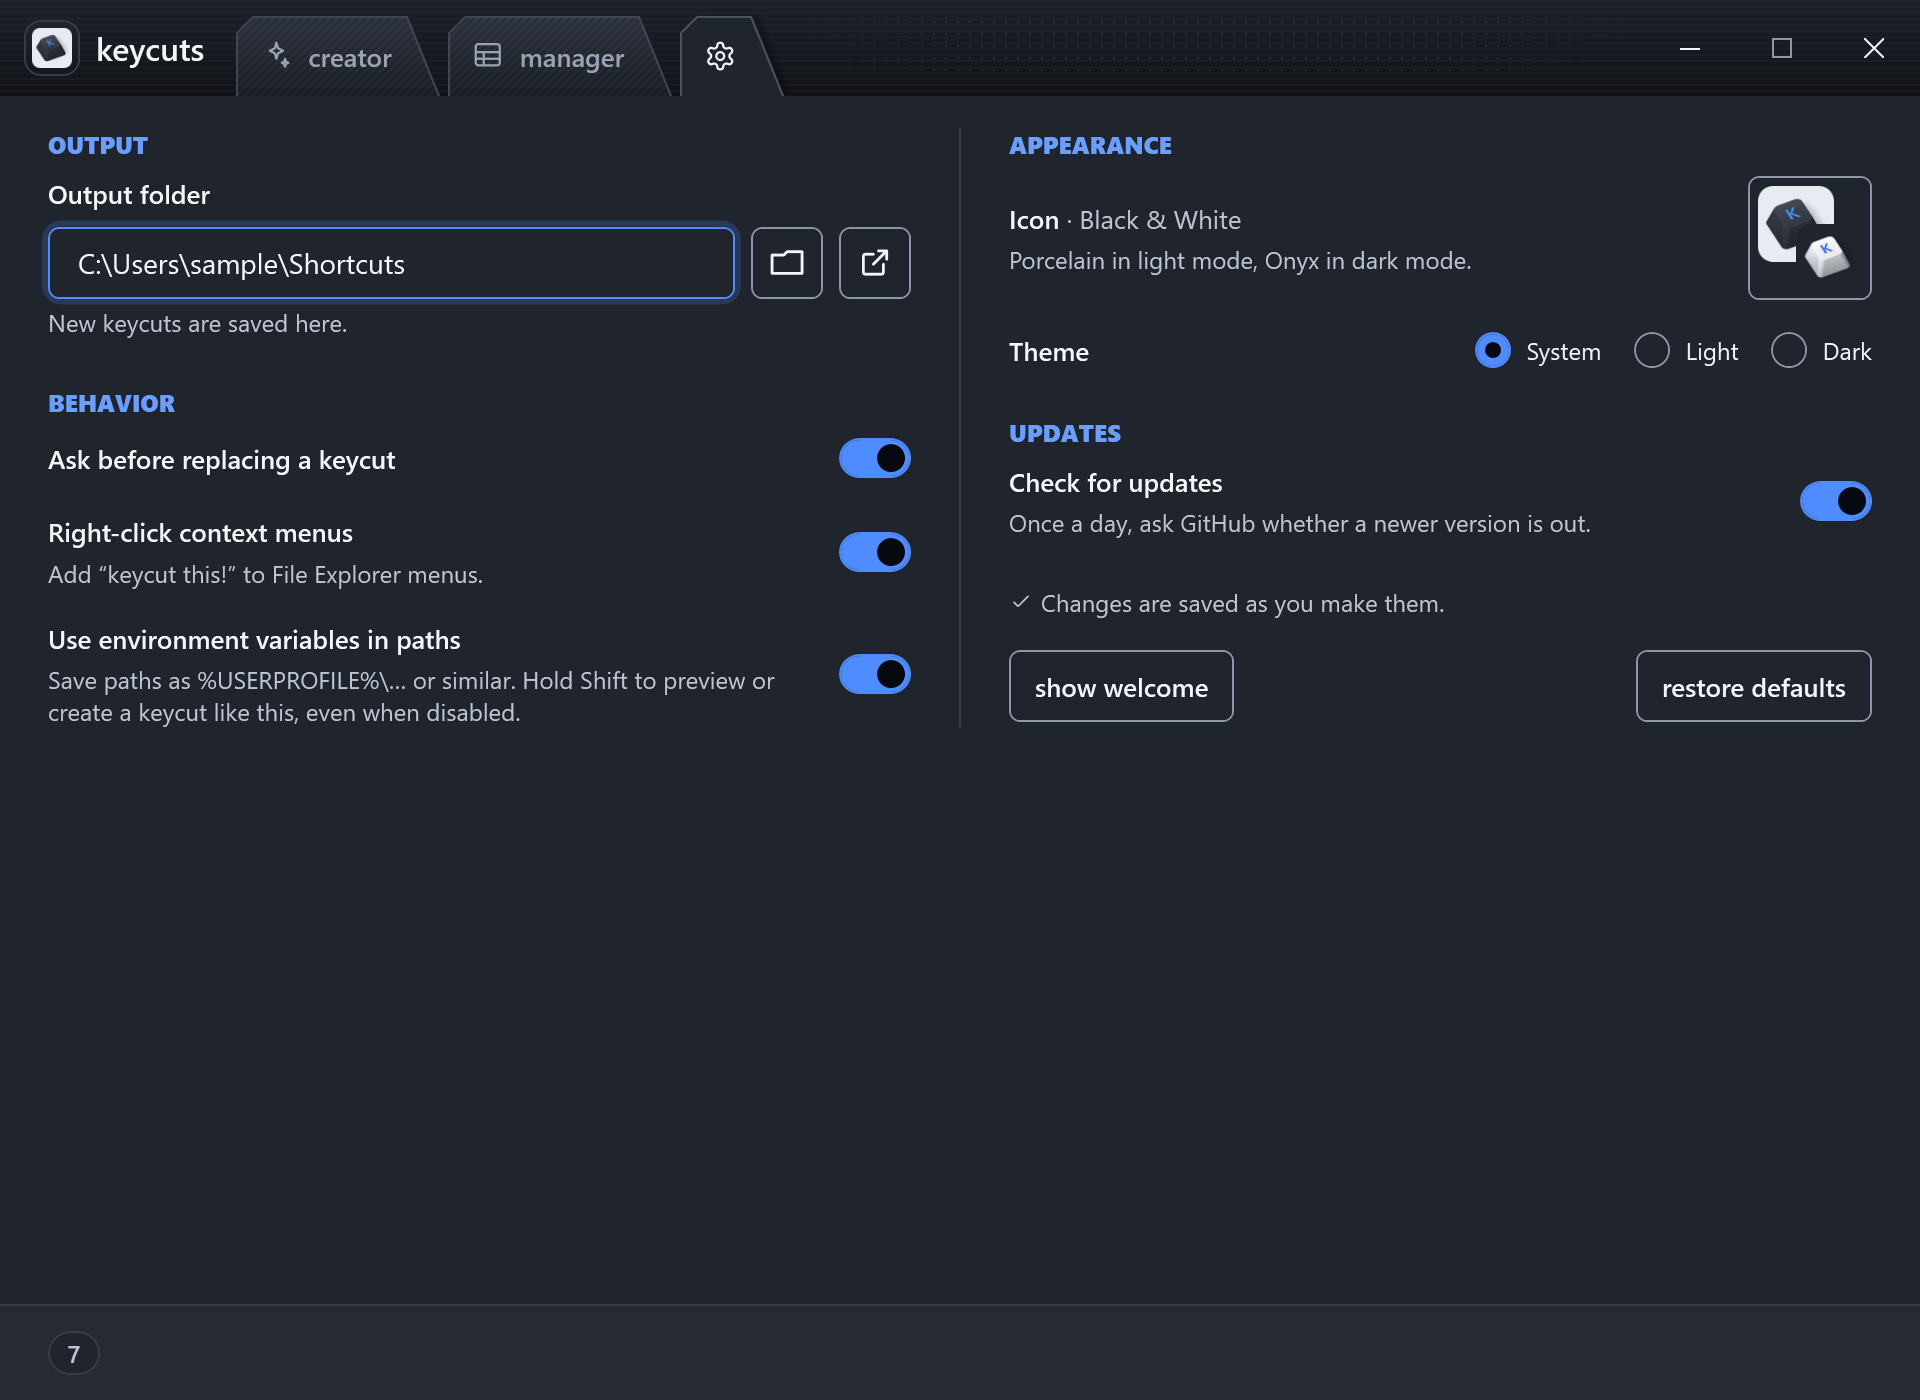
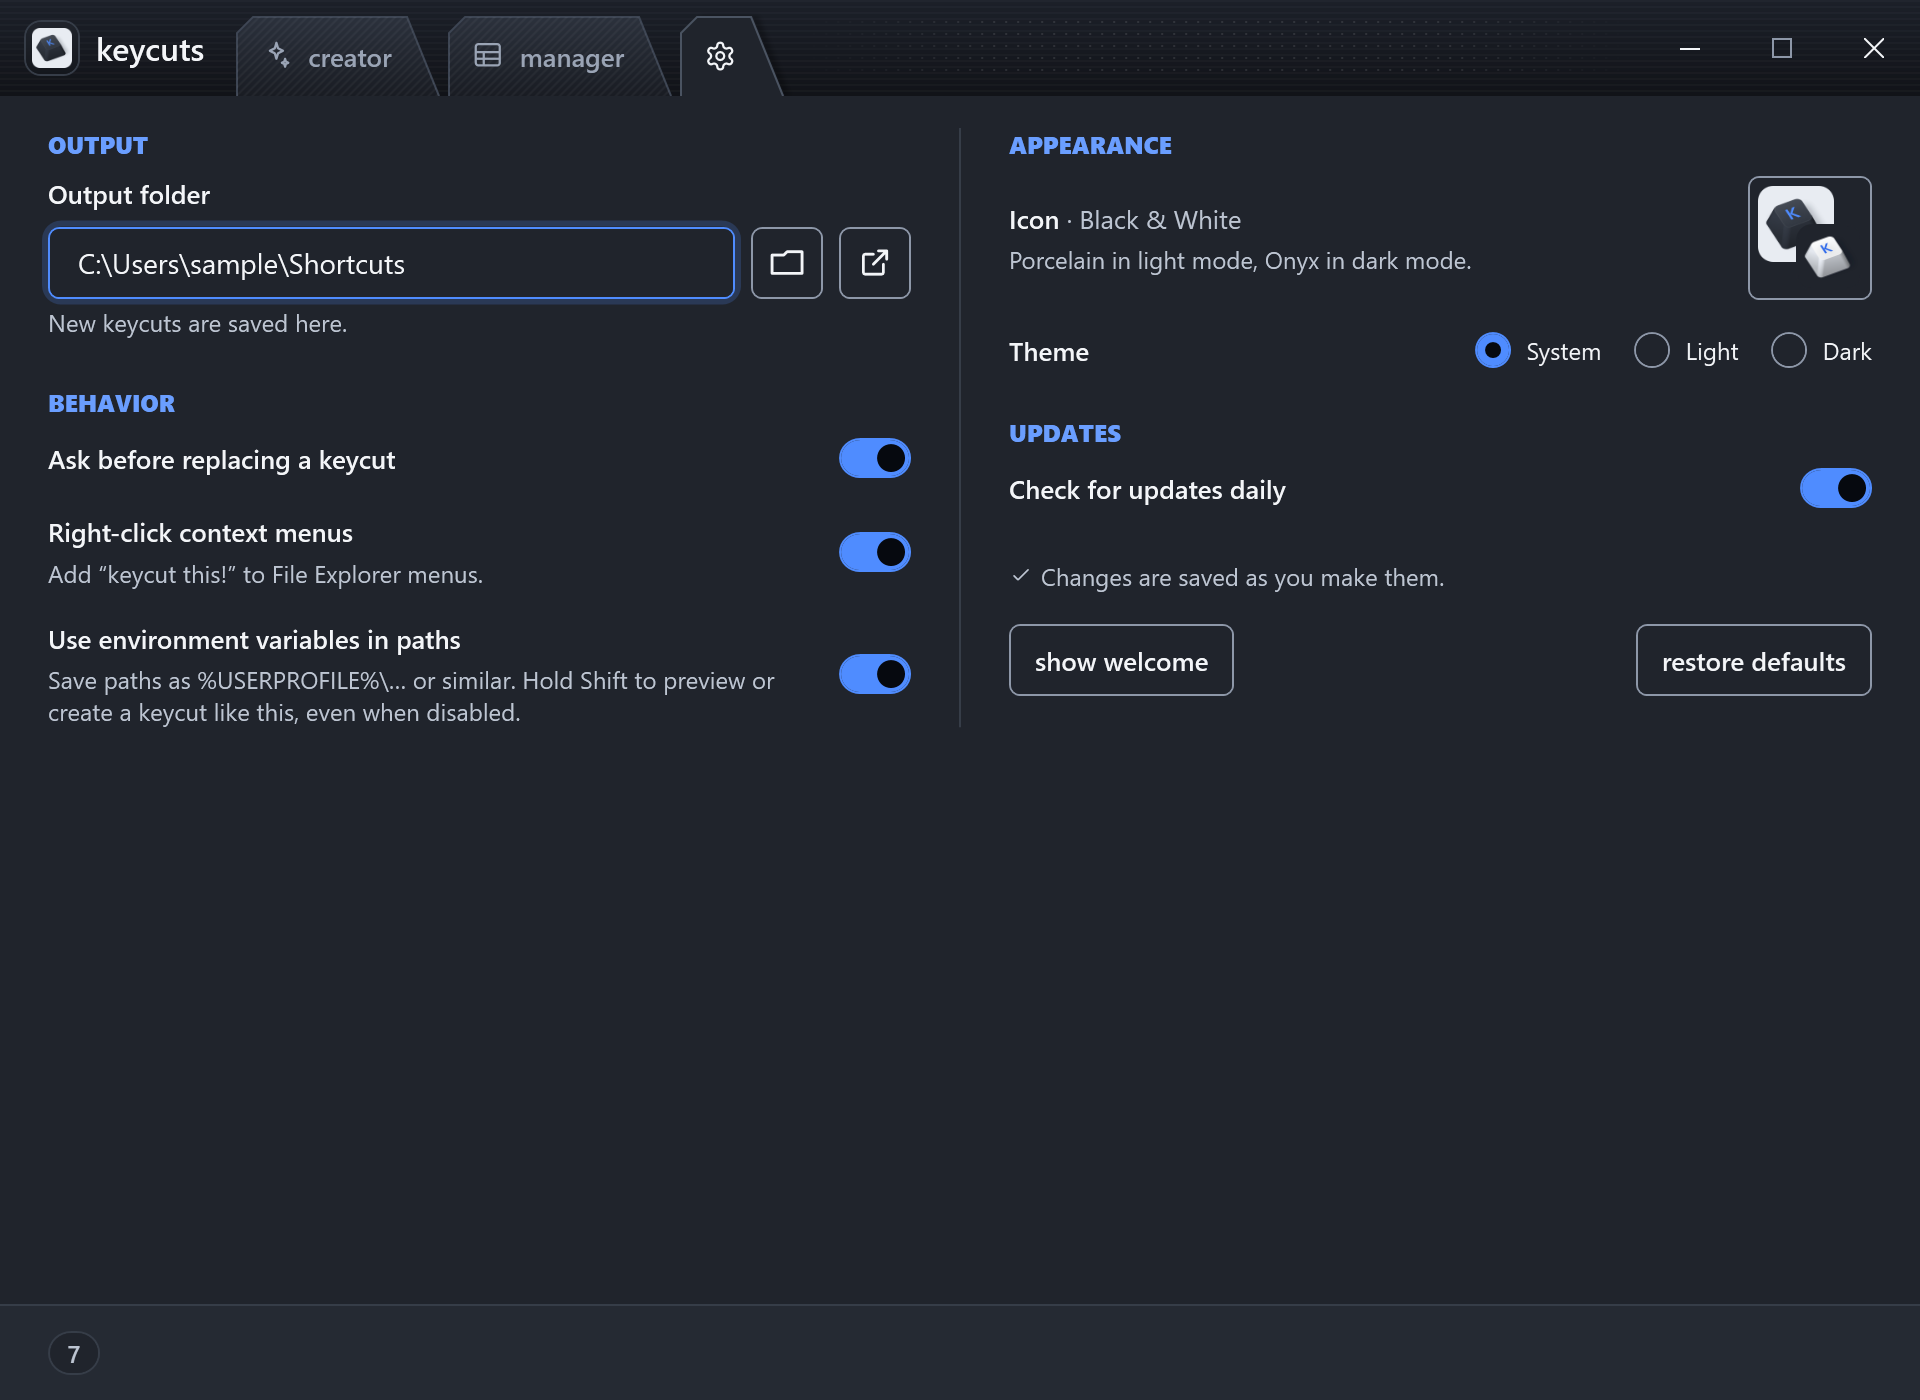
Rename the updates toggle to "Check for updates daily" and drop its note
The label now says how often, so the "Once a day, ask GitHub…" note is gone, from the screen and from the toggle's help text. The row is laid out like "Ask before replacing a keycut". The style guide's example of a setting's note uses another one.

Changed region(s): [[0.5312, 0.3379, 0.7812, 0.5221], [0.8438, 0.4607, 0.9688, 0.5221], [0.9375, 0.3379, 1.0, 0.3686]]

diff --git a/keycuts.GUI/Views/SettingsView.xaml b/keycuts.GUI/Views/SettingsView.xaml
@@ -266,13 +266,9 @@
               <ColumnDefinition Width="*" />
               <ColumnDefinition Width="Auto" />
             </Grid.ColumnDefinitions>
-            <StackPanel>
-              <TextBlock Text="Check for updates" Style="{StaticResource SettingName}" />
-              <TextBlock Text="Once a day, ask GitHub whether a newer version is out." Style="{StaticResource SettingNote}" />
-            </StackPanel>
+            <TextBlock Text="Check for updates daily" Style="{StaticResource SettingName}" VerticalAlignment="Center" />
             <ToggleButton x:Name="ToggleCheckForUpdates" Grid.Column="1" Style="{StaticResource ToggleSwitch}" Margin="16,0,0,0"
-                          VerticalAlignment="Center" IsChecked="{Binding CheckForUpdates}" AutomationProperties.Name="Check for updates"
-                          AutomationProperties.HelpText="Once a day, ask GitHub whether a newer version is out." />
+                          VerticalAlignment="Center" IsChecked="{Binding CheckForUpdates}" AutomationProperties.Name="Check for updates daily" />
           </Grid>
 
           <!-- The version, the update status and check now: hidden only for the README's screenshots -->

diff --git a/keycuts.Tests/SettingsViewModelTests.cs b/keycuts.Tests/SettingsViewModelTests.cs
@@ -1082,7 +1082,7 @@ namespace keycuts.Tests
                         {
                             "Output folder", "Choose a folder", "Open the output folder", "Ask before replacing a keycut", "Right-click context menus",
                             "Use environment variables in paths", "Icon: Black & White. Change", "System theme", "Light theme", "Dark theme",
-                            "Check for updates", "show the welcome panel", "restore defaults"
+                            "Check for updates daily", "show the welcome panel", "restore defaults"
                         },
                         stops);
                 }
@@ -1383,11 +1383,11 @@ namespace keycuts.Tests
                     var texts = Descendants<TextBlock>(window).Where(t => t.IsVisible).Select(t => t.Text).ToList();
 
                     Assert.DoesNotContain(texts, t => t.StartsWith("Confirm before a new keycut", StringComparison.Ordinal));
-                    Assert.Contains("Once a day, ask GitHub whether a newer version is out.", texts);
+                    Assert.Contains("Check for updates daily", texts);
+                    Assert.DoesNotContain(texts, t => t.StartsWith("Once a day", StringComparison.Ordinal));
                     Assert.Contains(@"Save paths as %USERPROFILE%\… or similar. Hold Shift to preview or create a keycut like this, even when disabled.", texts);
 
-                    Assert.Equal("Once a day, ask GitHub whether a newer version is out.",
-                        AutomationProperties.GetHelpText((DependencyObject)window.FindName("ToggleCheckForUpdates")));
+                    Assert.Equal("", AutomationProperties.GetHelpText((DependencyObject)window.FindName("ToggleCheckForUpdates")));
                     Assert.Equal("Confirm before a new keycut replaces one with the same name.",
                         AutomationProperties.GetHelpText((DependencyObject)window.FindName("ToggleAskBeforeReplacing")));
 
@@ -1644,7 +1644,7 @@ namespace keycuts.Tests
                     var toggles = Descendants<ToggleButton>(window).Where(t => t is not RadioButton).ToList();
 
                     Assert.Equal(
-                        new[] { "Ask before replacing a keycut", "Right-click context menus", "Use environment variables in paths", "Check for updates" },
+                        new[] { "Ask before replacing a keycut", "Right-click context menus", "Use environment variables in paths", "Check for updates daily" },
                         toggles.Select(AutomationProperties.GetName));
                     Assert.All(toggles, toggle => Assert.NotNull(UIElementAutomationPeer.CreatePeerForElement(toggle).GetPattern(PatternInterface.Toggle)));
                 }

diff --git a/docs/styleguide.md b/docs/styleguide.md
@@ -333,7 +333,7 @@ Not elsewhere: the Creator's target placeholder "Drop or paste a file, folder, U
 ### Punctuation
 
 - **No period** on labels, buttons, menu items, tooltips that are fragments, column headers, headings and placeholders.
-- **Periods** on full sentences: notes, helper text, messages, errors. A setting's note is a sentence ("Once a day, ask GitHub whether a newer version is out.").
+- **Periods** on full sentences: notes, helper text, messages, errors. A setting's note is a sentence ("Add “keycut this!” to File Explorer menus.").
 - **Exclamation marks** only in the four places that have them ([decision](#decisions)): "Welcome to keycuts!", the Explorer verb "keycut this!", "Created. Now try it out!" and the Classic icon's description. Nowhere else.
 - **Apostrophes and quotes** in the GUI are typographic: `’` and `“ ”`. Today the GUI mixes them with `'` ("Can't load your keycuts", "Couldn't delete"). The CLI's console output stays plain ASCII, because the console's code page may not show them.
 - **Em dash** without spaces around it ("dashes, or dots—no \ / :"). Better still, rewrite the sentence without one.
